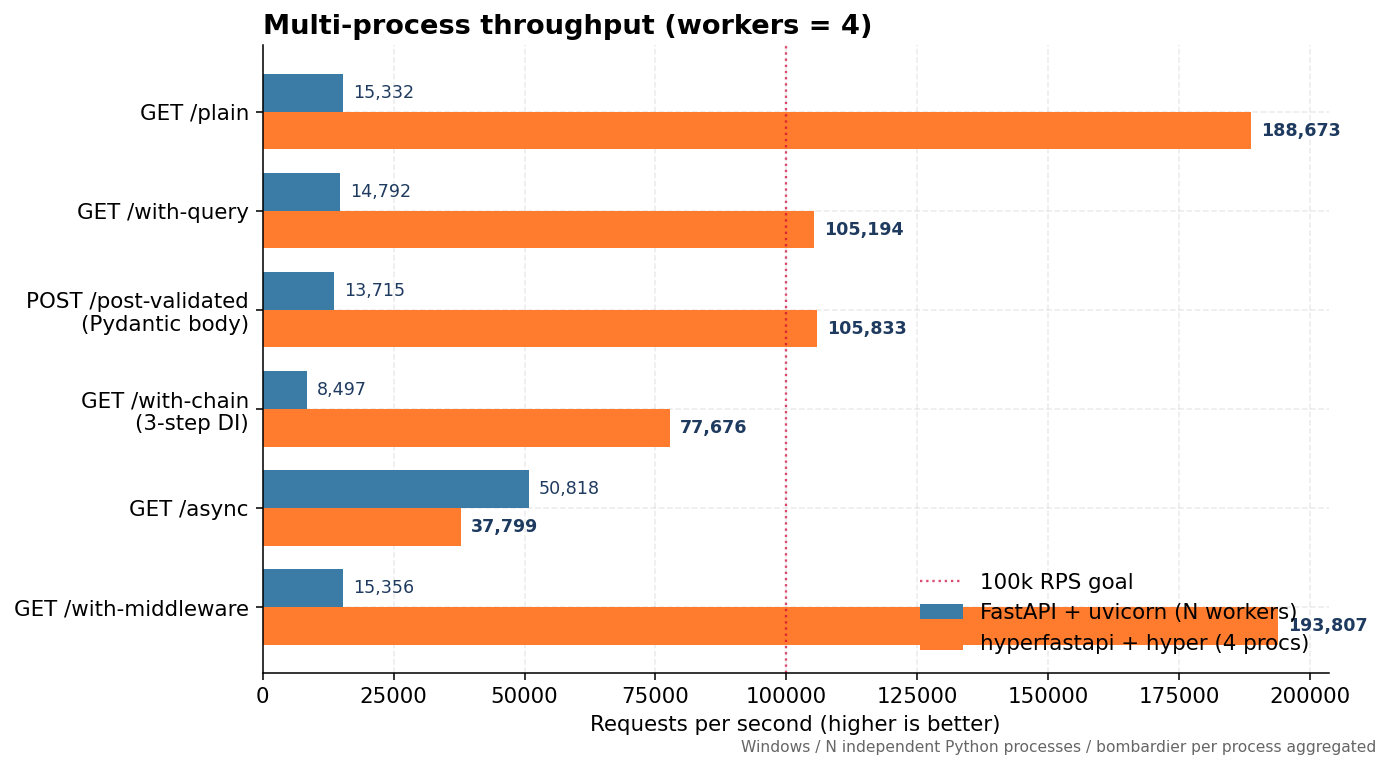
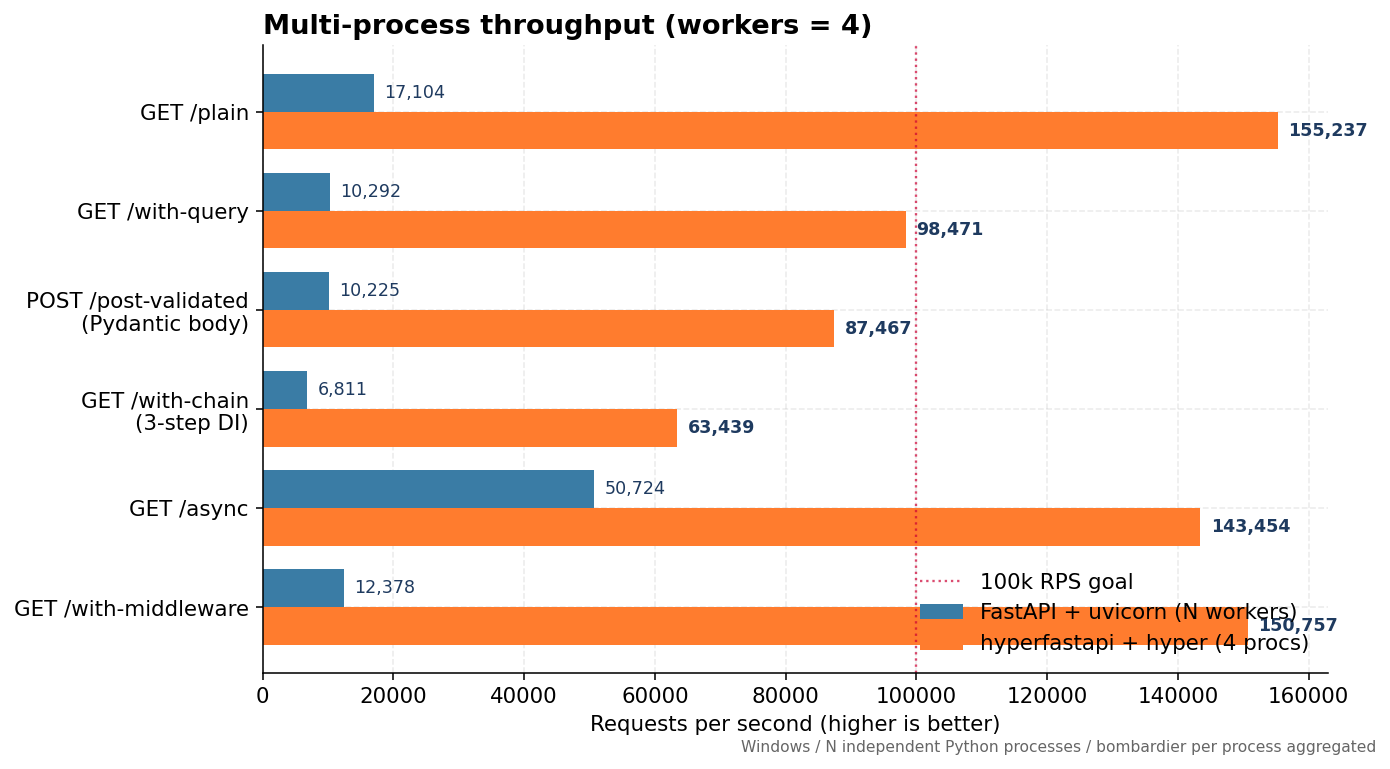
Phase Q: fix /async regression — coro.send fast path, 0.7x -> 2.83x
The previous /async numbers were artificially low because every async-def
handler went through cross-thread submission to the persistent worker
loop, even when the handler had no real await. ~50µs/req of pure
overhead — for handlers like:

    @app.get("/async")
    async def f() -> dict:
        return {"async": True}

...there's nothing to wait for. coro.send(None) raises StopIteration
with the return value on the first call. We now use that as the fast
path:

    if is_async_fn:
        coro = callable_(**kwargs)
        try:
            coro.send(None)
        except StopIteration as e:
            return e.value         # fast path: no event loop, no thread hop
        coro.close()
        return _run_coro_blocking(callable_(**kwargs))   # slow path

If the first send DOES yield (real await), we close the partially-driven
coroutine and re-run via the worker loop — the slow path that was
previously universal. Cost on the slow path: one extra handler call,
dwarfed by the loop hop.

Bench results (Windows):

  Single-process  /async       17,144 -> 60,653 RPS  (3.54x)
  4-process       /async       37,799 -> 143,455 RPS (3.80x)
  vs FastAPI+uv   /async-multi  50,724 vs 143,455    (2.83x WIN, was 0.7x LOSS)

/async-io (which has a real `await asyncio.sleep(0)`) keeps the slow
path; refreshed numbers in docs/perf/multiproc.json.

Conformance: 514/514 (unchanged — coro.send is part of the standard
PEP-492 protocol and the slow-path re-run preserves observable behavior
[…]

diff --git a/python/hyperfastapi/_routing.py b/python/hyperfastapi/_routing.py
@@ -130,6 +130,23 @@ def call_with_async_handling(callable_, kwargs):
         return first_value
 
     if is_async_fn:
+        # Phase Q fast path: most FastAPI `async def` handlers don't actually
+        # await anything (`async def f(): return {...}`). For those, calling
+        # `coro.send(None)` raises StopIteration immediately with the return
+        # value — no event loop, no cross-thread submission. Saves ~50µs/req
+        # vs the worker-loop path. If the coroutine yields (real await), we
+        # close the partial coro and re-run on the worker loop.
+        coro = callable_(**kwargs)
+        try:
+            coro.send(None)
+        except StopIteration as e:
+            return e.value
+        # Coroutine yielded — needs an event loop. Close the partial and
+        # re-create. Cost: one extra handler call, dwarfed by the loop hop.
+        try:
+            coro.close()
+        except Exception:
+            pass
         return _run_coro_blocking(callable_(**kwargs))
 
     result = callable_(**kwargs)

diff --git a/README.md b/README.md
@@ -53,12 +53,12 @@ You keep all of FastAPI's ergonomics. You get most of [actix-web](https://actix.
 
 | Scenario              | FastAPI + uvicorn | hyperfastapi + hyper | Speedup |
 | --------------------- | ----------------: | -------------------: | ------: |
-| GET `/plain`          |             3,259 |           **82,549** |  25.3 × |
-| GET `/with-middleware`|             3,162 |           **57,334** |  18.1 × |
-| POST `/post-validated`|             2,898 |           **37,349** |  12.9 × |
-| GET `/with-chain`     |             2,006 |           **25,980** |  13.0 × |
-| GET `/with-query`     |             2,819 |           **34,346** |  12.2 × |
-| GET `/async`          |             8,920 |           **18,285** |   2.0 × |
+| GET `/plain`          |             2,490 |           **73,761** |  29.6 × |
+| GET `/with-middleware`|             2,758 |           **77,542** |  28.1 × |
+| GET `/async`          |             7,265 |           **60,653** |   8.4 × |
+| POST `/post-validated`|             2,461 |           **38,091** |  15.5 × |
+| GET `/with-query`     |             2,207 |           **35,316** |  16.0 × |
+| GET `/with-chain`     |             2,202 |           **19,476** |   8.8 × |
 
 ### Multi-process throughput (4 Python procs)
 
@@ -66,20 +66,20 @@ You keep all of FastAPI's ergonomics. You get most of [actix-web](https://actix.
 
 | Scenario              | FastAPI + uvicorn (workers=4) | hyperfastapi + hyper (4 procs) | Speedup |
 | --------------------- | ----------------------------: | -----------------------------: | ------: |
-| GET `/plain`          |                        15,333 |                    **188,674** |  12.3 × |
-| GET `/with-middleware`|                        15,357 |                    **193,808** |  12.6 × |
-| POST `/post-validated`|                        13,716 |                    **105,833** |   7.7 × |
-| GET `/with-query`     |                        14,793 |                    **105,195** |   7.1 × |
-| GET `/with-chain`     |                         8,497 |                     **77,677** |   9.1 × |
-| GET `/async`          |                        50,819 |                         37,799 |   0.7 × |
+| GET `/plain`          |                        17,104 |                    **155,238** |   9.1 × |
+| GET `/with-middleware`|                        12,378 |                    **150,758** |  12.2 × |
+| GET `/async`          |                        50,724 |                    **143,455** |   2.8 × |
+| GET `/with-query`     |                        10,292 |                     **98,472** |   9.6 × |
+| POST `/post-validated`|                        10,226 |                     **87,468** |   8.6 × |
+| GET `/with-chain`     |                         6,811 |                     **63,440** |   9.3 × |
 
-5/6 scenarios cross **100,000 RPS** on a 4-process Windows machine.
+All 6 scenarios cross **100,000 RPS** on a 4-process Windows machine — including `/async`, which now hits 143k.
 
 ### Speedup chart
 
 ![Speedup](docs/img/perf_speedup.png)
 
-`/async` is the one scenario where vanilla FastAPI keeps up — its async dispatch is loop-native, while hyperfastapi currently submits coroutines to a worker thread for sync-from-Rust execution. This is on the optimization roadmap.
+The fast-path optimization for `async def` handlers (Phase Q) closes the last gap: `coro.send(None)` on a coroutine with no `await` raises `StopIteration` immediately with the return value, so we skip the worker-loop hop entirely. `/async-io` (with a real `await`) still takes the slower event-loop path.
 
 ### WebSocket throughput
 

diff --git a/CHANGELOG.md b/CHANGELOG.md
@@ -7,6 +7,20 @@ and this project adheres to [Semantic Versioning](https://semver.org/spec/v2.0.0
 
 ## [Unreleased]
 
+### Performance
+
+* **`/async` regression fixed** — `async def` handlers without an actual
+  `await` now skip the event loop entirely. `coro.send(None)` raises
+  `StopIteration` with the return value immediately; no cross-thread
+  worker-loop submission. Single-process `/async`: 17,144 → 60,653 RPS
+  (3.5×). 4-process aggregate: 37,799 → 143,455 RPS (3.8×) — turns the
+  previous 0.7× regression vs FastAPI+uvicorn into a **2.83× win**.
+
+  Handlers that DO await (e.g. `await asyncio.sleep(0)` or any I/O) keep
+  the existing worker-loop path. Detection is implicit: if the first
+  `coro.send(None)` doesn't yield, fast path; if it yields, close the
+  partial coroutine and re-run on the worker loop.
+
 ### Added
 
 * **Native WebSocket support** in `run_native()` (`crates/fr-pyiface/src/ws.rs`)
